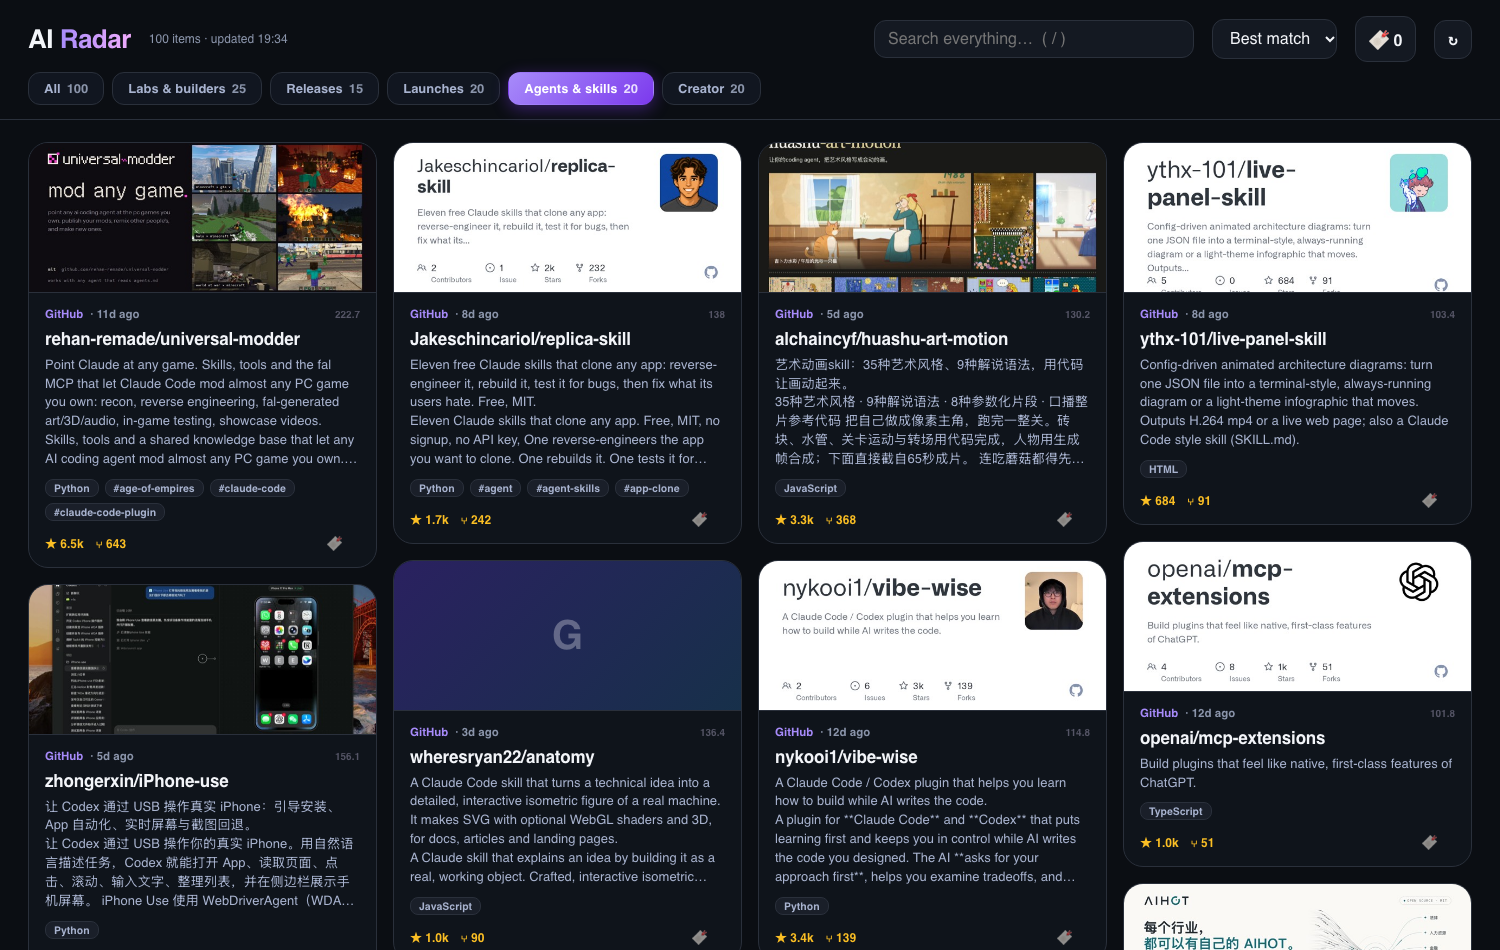
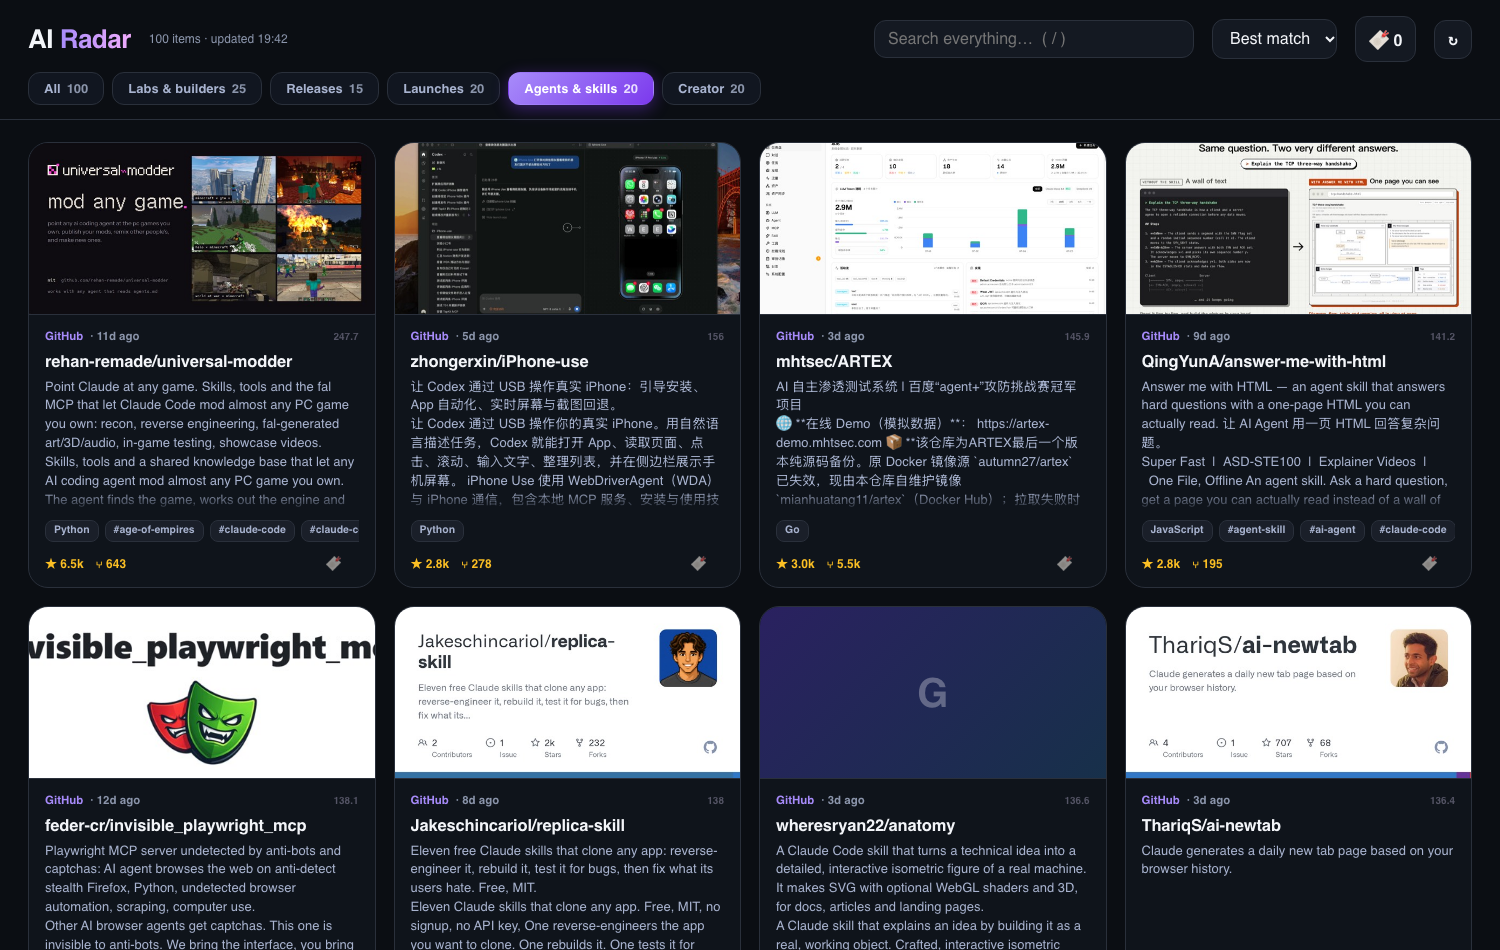
See-all page: uniform card height for a balanced grid

diff --git a/widget/radar.html b/widget/radar.html
@@ -14,17 +14,17 @@ input{width:320px} input:focus,select:focus{border-color:var(--pur2)} button{cur
 .tabs{display:flex;gap:8px;padding:0 0 14px;flex-wrap:wrap}
 .tab{padding:8px 15px;border-radius:12px;border:1px solid var(--line);background:#111620;color:var(--soft);font-weight:700;font-size:13px;cursor:pointer}
 .tab b{color:var(--mut);font-weight:600;margin-left:6px}.tab.on{background:linear-gradient(135deg,#a78bfa,#7c3aed);border-color:transparent;color:#fff;box-shadow:0 4px 16px rgba(124,58,237,.4)}.tab.on b{color:#e9ddff}
-.grid{columns:4 300px;column-gap:16px;padding:22px 0 80px}
-.card{break-inside:avoid;display:block;margin:0 0 16px;background:var(--card);border:1px solid var(--line);border-radius:20px;overflow:hidden;text-decoration:none;color:inherit;transition:border-color .15s,transform .15s}
+.grid{display:grid;grid-template-columns:repeat(auto-fill,minmax(300px,1fr));gap:18px;padding:22px 0 80px}
+.card{display:flex;flex-direction:column;height:446px;background:var(--card);border:1px solid var(--line);border-radius:20px;overflow:hidden;text-decoration:none;color:inherit;transition:border-color .15s,transform .15s}
 .card:hover{border-color:#a8b3cf;transform:translateY(-2px)}
-.im{height:150px;background:#1a1f29 center/cover no-repeat;border-bottom:1px solid var(--line)}.im.ph{background:linear-gradient(135deg,#2a2160,#17304a);display:flex;align-items:center;justify-content:center;font-size:40px;font-weight:800;color:rgba(255,255,255,.3)}
-.p{padding:14px 16px 12px}.m{display:flex;gap:7px;align-items:center;font-size:11.5px;color:var(--mut);font-weight:600}.m b{color:var(--pur2)}
+.im{flex:none;height:172px;background:#1a1f29 center/cover no-repeat;border-bottom:1px solid var(--line)}.im.ph{background:linear-gradient(135deg,#2a2160,#17304a);display:flex;align-items:center;justify-content:center;font-size:40px;font-weight:800;color:rgba(255,255,255,.3)}
+.p{flex:1;min-height:0;display:flex;flex-direction:column;padding:14px 16px 13px}.m{flex:none;display:flex;gap:7px;align-items:center;font-size:11.5px;color:var(--mut);font-weight:600;white-space:nowrap;overflow:hidden}.m b{color:var(--pur2)}
 .new{background:#ff5c39;color:#fff;border-radius:7px;padding:2px 7px;font-size:10px;font-weight:800}
-.t{font-size:17px;font-weight:800;line-height:1.22;letter-spacing:-.01em;margin:8px 0 6px;word-break:break-word}.card:hover .t{color:var(--pur2)}
-.b{font-size:13px;line-height:1.45;color:var(--soft);display:-webkit-box;-webkit-line-clamp:6;-webkit-box-orient:vertical;overflow:hidden;white-space:pre-line}
-ul{margin:8px 0 0;padding:0;list-style:none}li{font-size:12.5px;color:var(--soft);padding-left:14px;position:relative;margin:5px 0;line-height:1.4}li:before{content:'';position:absolute;left:1px;top:6px;width:6px;height:6px;border-radius:50%;background:var(--pur2)}
-.tags{display:flex;gap:6px;flex-wrap:wrap;margin-top:10px}.tag{font-size:10.5px;font-weight:700;color:var(--soft);background:#1a1f29;border:1px solid var(--line);padding:2px 8px;border-radius:8px}
-.ft{display:flex;justify-content:space-between;align-items:center;margin-top:10px;font-size:12px;font-weight:700;color:#fbbf24}.ft span{margin-right:12px}.ft .r{color:var(--mut);font-weight:600;margin:0}
+.t{flex:none;font-size:16.5px;font-weight:800;line-height:1.25;letter-spacing:-.01em;margin:8px 0 6px;display:-webkit-box;-webkit-line-clamp:2;-webkit-box-orient:vertical;overflow:hidden;word-break:break-word}.card:hover .t{color:var(--pur2)}
+.b{flex:1;min-height:0;overflow:hidden;font-size:13px;line-height:1.45;color:var(--soft);white-space:pre-line;-webkit-mask-image:linear-gradient(#000 calc(100% - 22px),transparent);mask-image:linear-gradient(#000 calc(100% - 22px),transparent)}
+ul{flex:1;min-height:0;overflow:hidden;margin:4px 0 0;padding:0;list-style:none;-webkit-mask-image:linear-gradient(#000 calc(100% - 22px),transparent);mask-image:linear-gradient(#000 calc(100% - 22px),transparent)}li{font-size:12.5px;color:var(--soft);padding-left:14px;position:relative;margin:5px 0;line-height:1.4}li:before{content:'';position:absolute;left:1px;top:6px;width:6px;height:6px;border-radius:50%;background:var(--pur2)}
+.tags{flex:none;display:flex;gap:6px;flex-wrap:nowrap;overflow:hidden;margin-top:8px;height:22px}.tag{flex:none;white-space:nowrap;max-width:140px;overflow:hidden;text-overflow:ellipsis;font-size:10.5px;font-weight:700;color:var(--soft);background:#1a1f29;border:1px solid var(--line);padding:2px 8px;border-radius:8px}
+.ft{flex:none;display:flex;justify-content:space-between;align-items:center;margin-top:10px;height:22px;font-size:12px;font-weight:700;color:#fbbf24}.ft span{margin-right:12px}.ft .r{color:var(--mut);font-weight:600;margin:0}
 .sv{cursor:pointer;opacity:.6;padding:2px 6px;border-radius:8px}.sv:hover,.sv.on{opacity:1;background:#2a303b}
 .empty,.more{color:var(--mut);text-align:center;padding:60px 0}.score{font-size:10px;color:#556;margin-left:auto}
 </style></head><body>

diff --git a/CHANGELOG.md b/CHANGELOG.md
@@ -1,5 +1,9 @@
 # Changelog
 
+## 0.1.1
+- "See all" page: every card now has the same height (fixed image area, title, fading text, one-line tags, pinned footer) for a balanced grid
+- `radar doctor` no longer reports a running Übersicht as stopped
+
 ## 0.1.0 — first public release
 - Five lanes with carousel cards, local image cache, full "See all" page with search and infinite scroll
 - Prefs-driven ranking (boost/mute/min stars), per-lane source health, `radar doctor`
